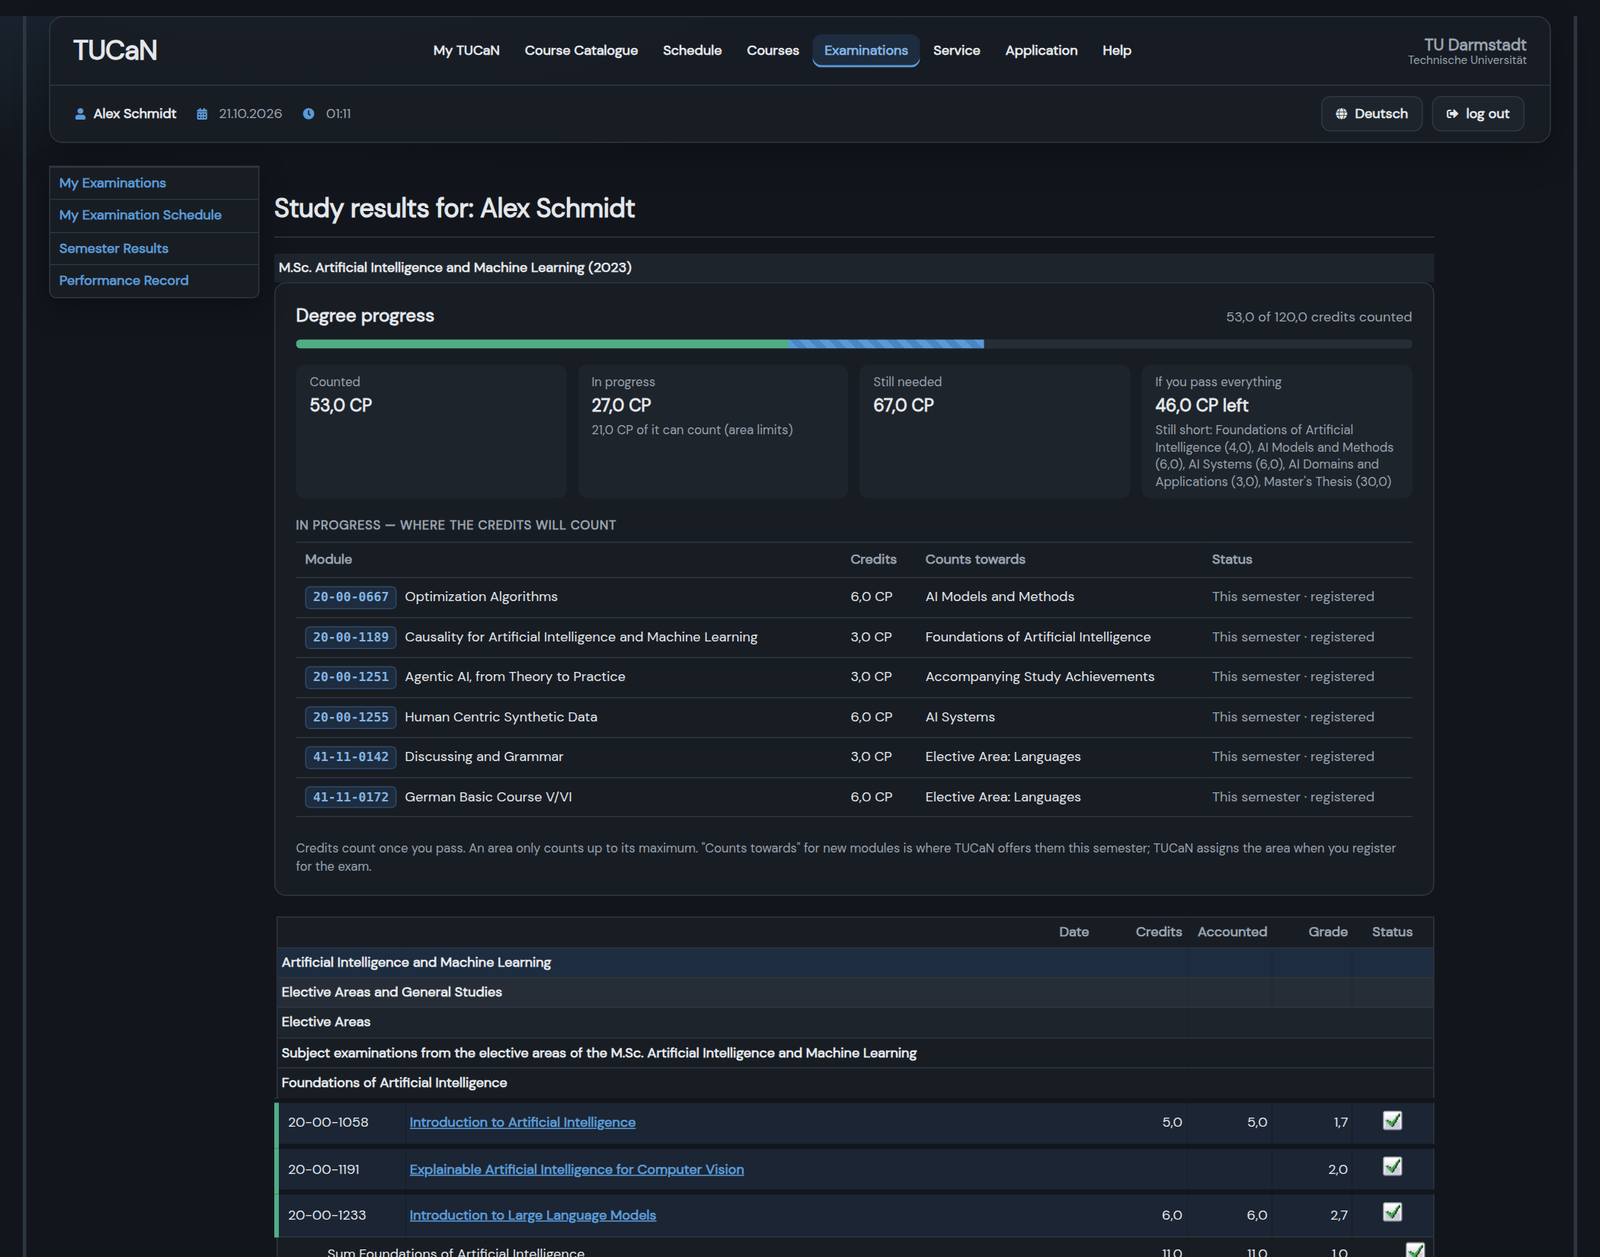
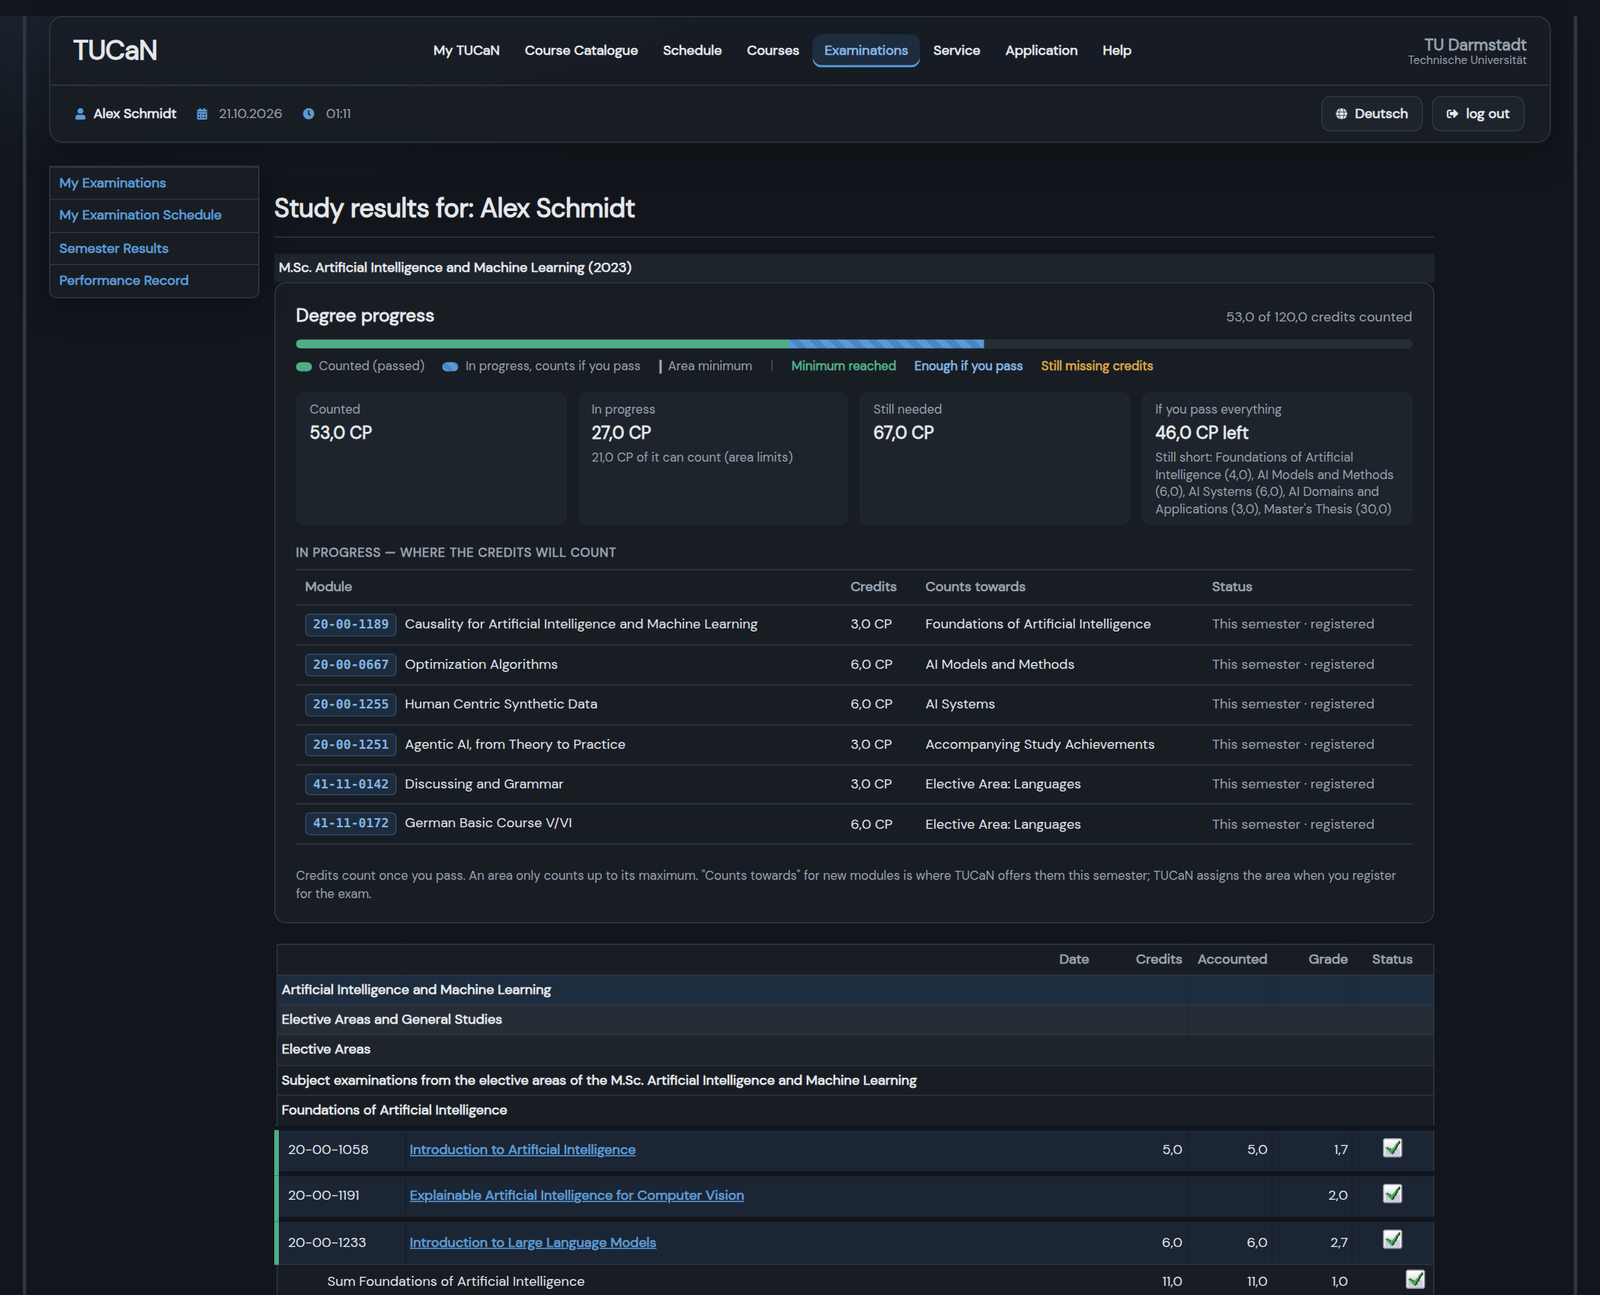
Degree progress: colour legend and tooltips (1.1.3)

diff --git a/extension/js/progress.js b/extension/js/progress.js
@@ -250,6 +250,15 @@
     head.appendChild(el('span', null, fmt(counted) + ' of ' + fmt(target) + ' credits counted'));
     summary.appendChild(head);
     summary.appendChild(bar(counted, willCount, target));
+    var legend = el('div', 'tc-legend');
+    [['tc-key-done', 'Counted (passed)'], ['tc-key-pending', 'In progress, counts if you pass'], ['tc-key-mark', 'Area minimum']].forEach(function(k){
+      var item = el('span'); item.appendChild(el('i', k[0])); item.appendChild(document.createTextNode(k[1])); legend.appendChild(item);
+    });
+    legend.appendChild(el('span', 'tc-legend-sep', '|'));
+    [['tc-ok', 'Minimum reached'], ['tc-soon', 'Enough if you pass'], ['tc-need', 'Still missing credits']].forEach(function(k){
+      legend.appendChild(el('span', 'tc-legend-text ' + k[0], k[1]));
+    });
+    summary.appendChild(legend);
     var facts = el('div', 'tc-progress-facts');
     [['Counted', fmt(counted) + ' CP'],
      ['In progress', fmt(inProg) + ' CP', willCount < inProg ? fmt(willCount) + ' CP of it can count (area limits)' : 'all of it can count'],
@@ -309,6 +318,8 @@
       line.appendChild(bar(done, counts, min || (max === Infinity ? 0 : max)));
       line.appendChild(el('span', 'tc-area-count', fmt(done) + (min ? ' / ' + fmt(min) : '') + ' CP'));
       line.appendChild(el('span', 'tc-area-msg', msg));
+      line.title = fmt(done) + ' CP counted' + (wip ? ', ' + fmt(counts) + ' CP in progress that can count' : '') +
+        (min ? ', minimum ' + fmt(min) + ' CP' : '') + (max !== Infinity ? ', maximum ' + fmt(max) + ' CP' : '');
       td.appendChild(line); tr.appendChild(td);
       var after = a.ruleRow || a.sumRow;
       after.parentNode.insertBefore(tr, after.nextSibling);

diff --git a/extension/css/style.css b/extension/css/style.css
@@ -897,3 +897,14 @@ html body .tuplan-status[data-tone='error']{ color: var(--danger) !important; }
 #pageContent a.tc-code{ text-decoration: none !important; }
 #pageContent a.tc-code:hover{ background: #24384f !important; }
 .tc-pending-table .tuplan-badge{ margin-left: 2px !important; margin-right: 6px !important; }
+.tc-legend{ display: flex; flex-wrap: wrap; align-items: center; gap: 6px 16px; margin-top: 8px; color: var(--muted) !important; font-size: 11px !important; }
+.tc-legend span{ display: inline-flex; align-items: center; gap: 6px; color: var(--muted) !important; font-size: 11px !important; }
+.tc-legend i{ display: inline-block; width: 14px; height: 8px; border-radius: 999px; }
+.tc-legend i.tc-key-done{ background: var(--success) !important; }
+.tc-legend i.tc-key-pending{ background: repeating-linear-gradient(45deg, var(--accent) 0 4px, #4a86c2 4px 8px) !important; }
+.tc-legend i.tc-key-mark{ width: 2px; height: 12px; border-radius: 0; background: var(--text) !important; opacity: .7; }
+.tc-legend .tc-legend-sep{ opacity: .4; }
+.tc-legend .tc-legend-text{ font-weight: 600 !important; }
+.tc-legend .tc-legend-text.tc-ok{ color: var(--success) !important; }
+.tc-legend .tc-legend-text.tc-soon{ color: var(--accent-hi) !important; }
+.tc-legend .tc-legend-text.tc-need{ color: var(--warning) !important; }

diff --git a/README.md b/README.md
@@ -115,6 +115,8 @@ Each exam shows its module code, the full name and date. **Unregister** is shown
 
 At the top of your performance record:
 
+**Colours:** in the bars, 🟩 green = credits counted, striped 🟦 blue = in progress (counts if you pass), and the thin white line = the area's minimum. In the text, green means the minimum is reached, blue means it's enough if you pass, and amber means credits are still missing even then. A legend is shown under the main bar, and hovering an area's line shows its numbers.
+
 - **Overall:** credits counted vs. required (e.g. *53 of 120*), what's in progress and how much of it can still count, and what would be left if you pass everything.
 - **Still short:** areas that won't reach their minimum even if you pass all current modules, e.g. *AI Domains and Applications (3,0)*. Plan your next semester with these.
 - **In progress, where the credits will count:** every module you're registered for this semester, plus open or incomplete ones, with its credits and the area it counts towards.
